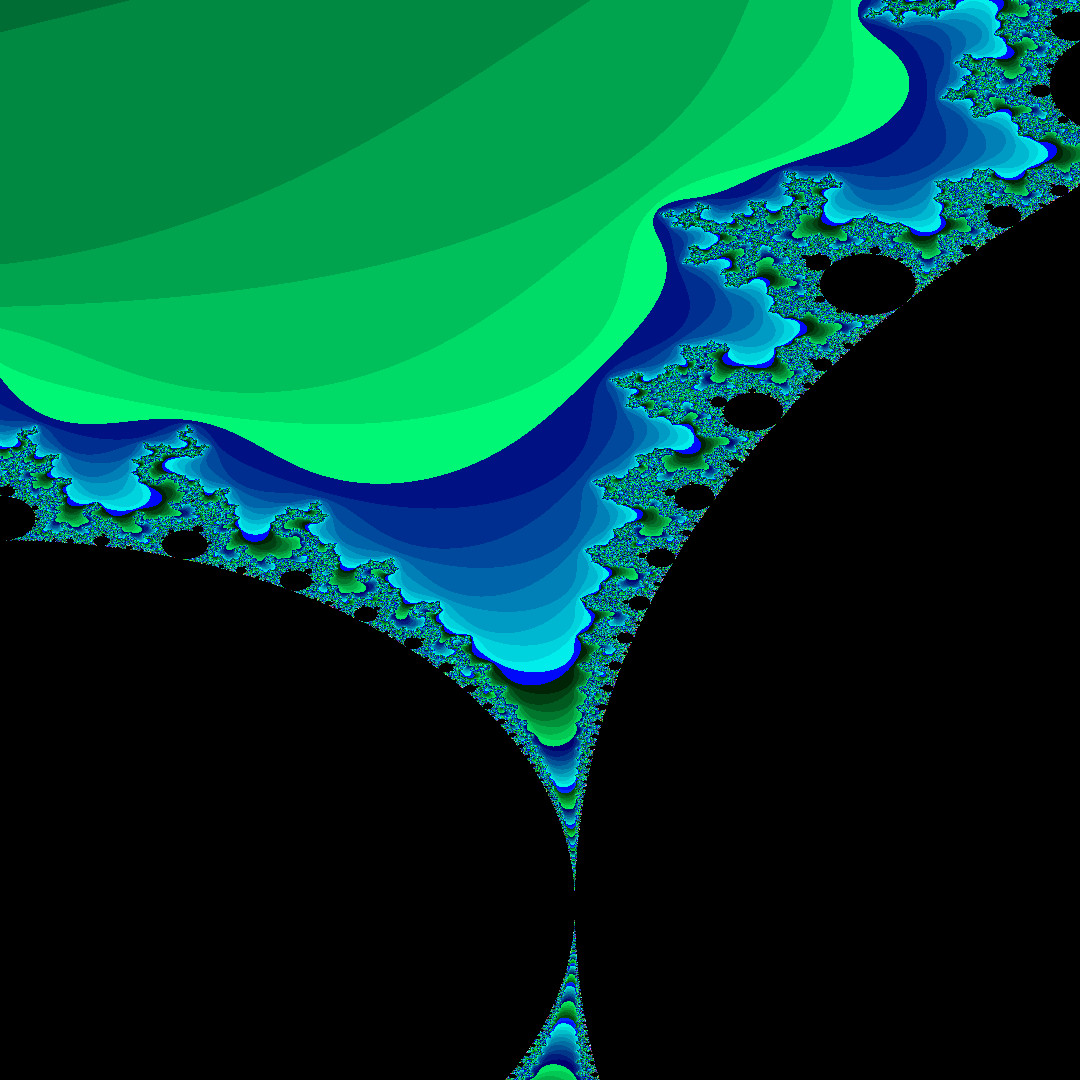
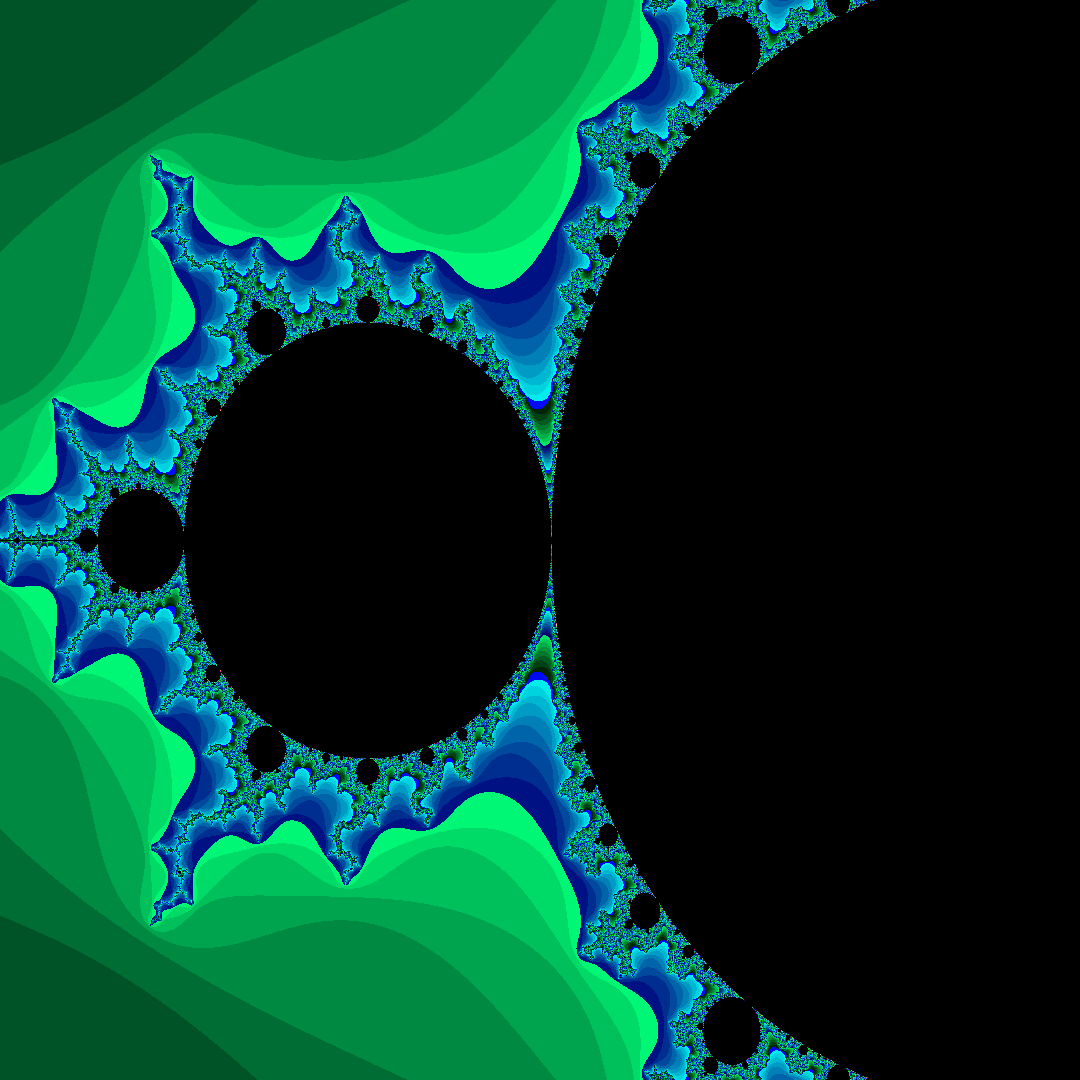
ok

diff --git a/src/main.rs b/src/main.rs
@@ -185,9 +185,8 @@ fn main() {
     
     let now = Instant::now();
     //generate_image_p(1080, 1080, -2.0, -1.12, 0.47, 1.12);
-    let xd = 1.0;
-    let yd = 0.5;
-    generate_image_p(1080, 1080, -2.0 + xd, -1.12 + yd, 0.47 - xd, 1.12 - xd);
+    let diff = 0.5;
+    generate_image_p(1080, 1080, -2.0 + diff, -1.12 + diff, 0.47 - diff, 1.12 - diff);
     let elapsed = now.elapsed();
     println!("Elapsed time: {:.2?}", elapsed);
 
